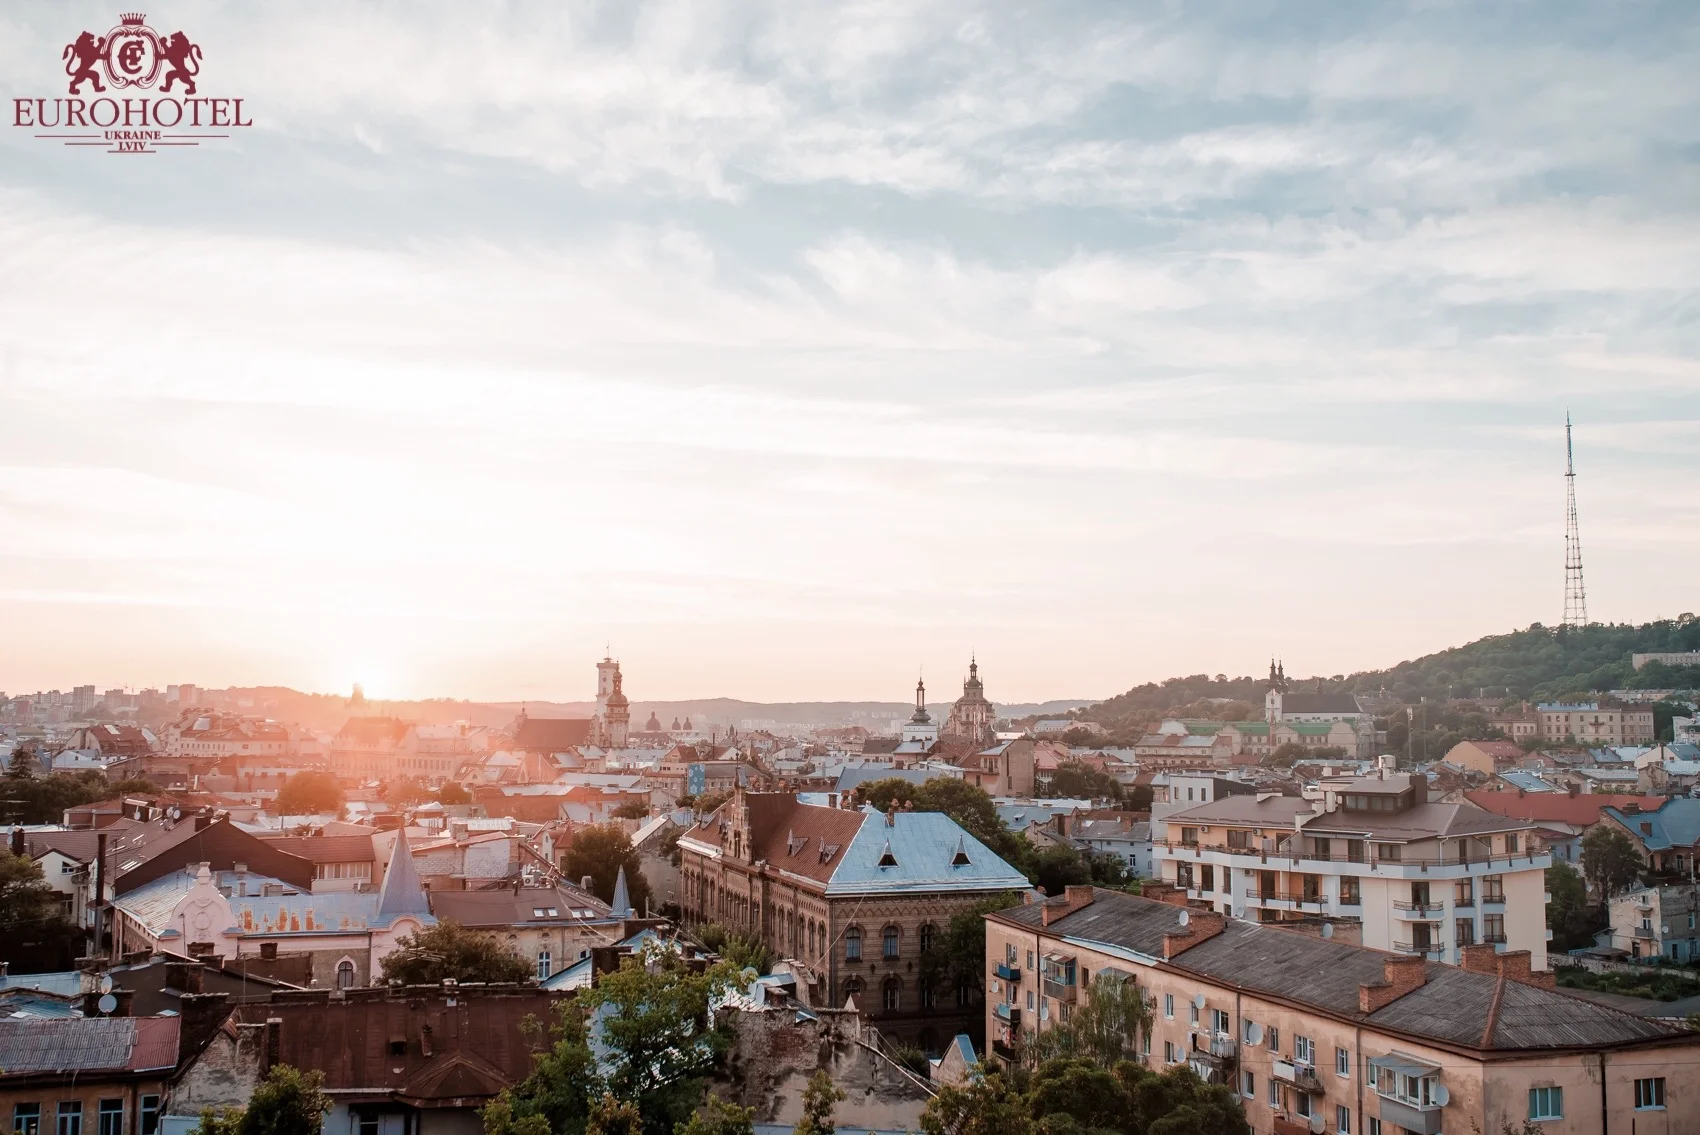
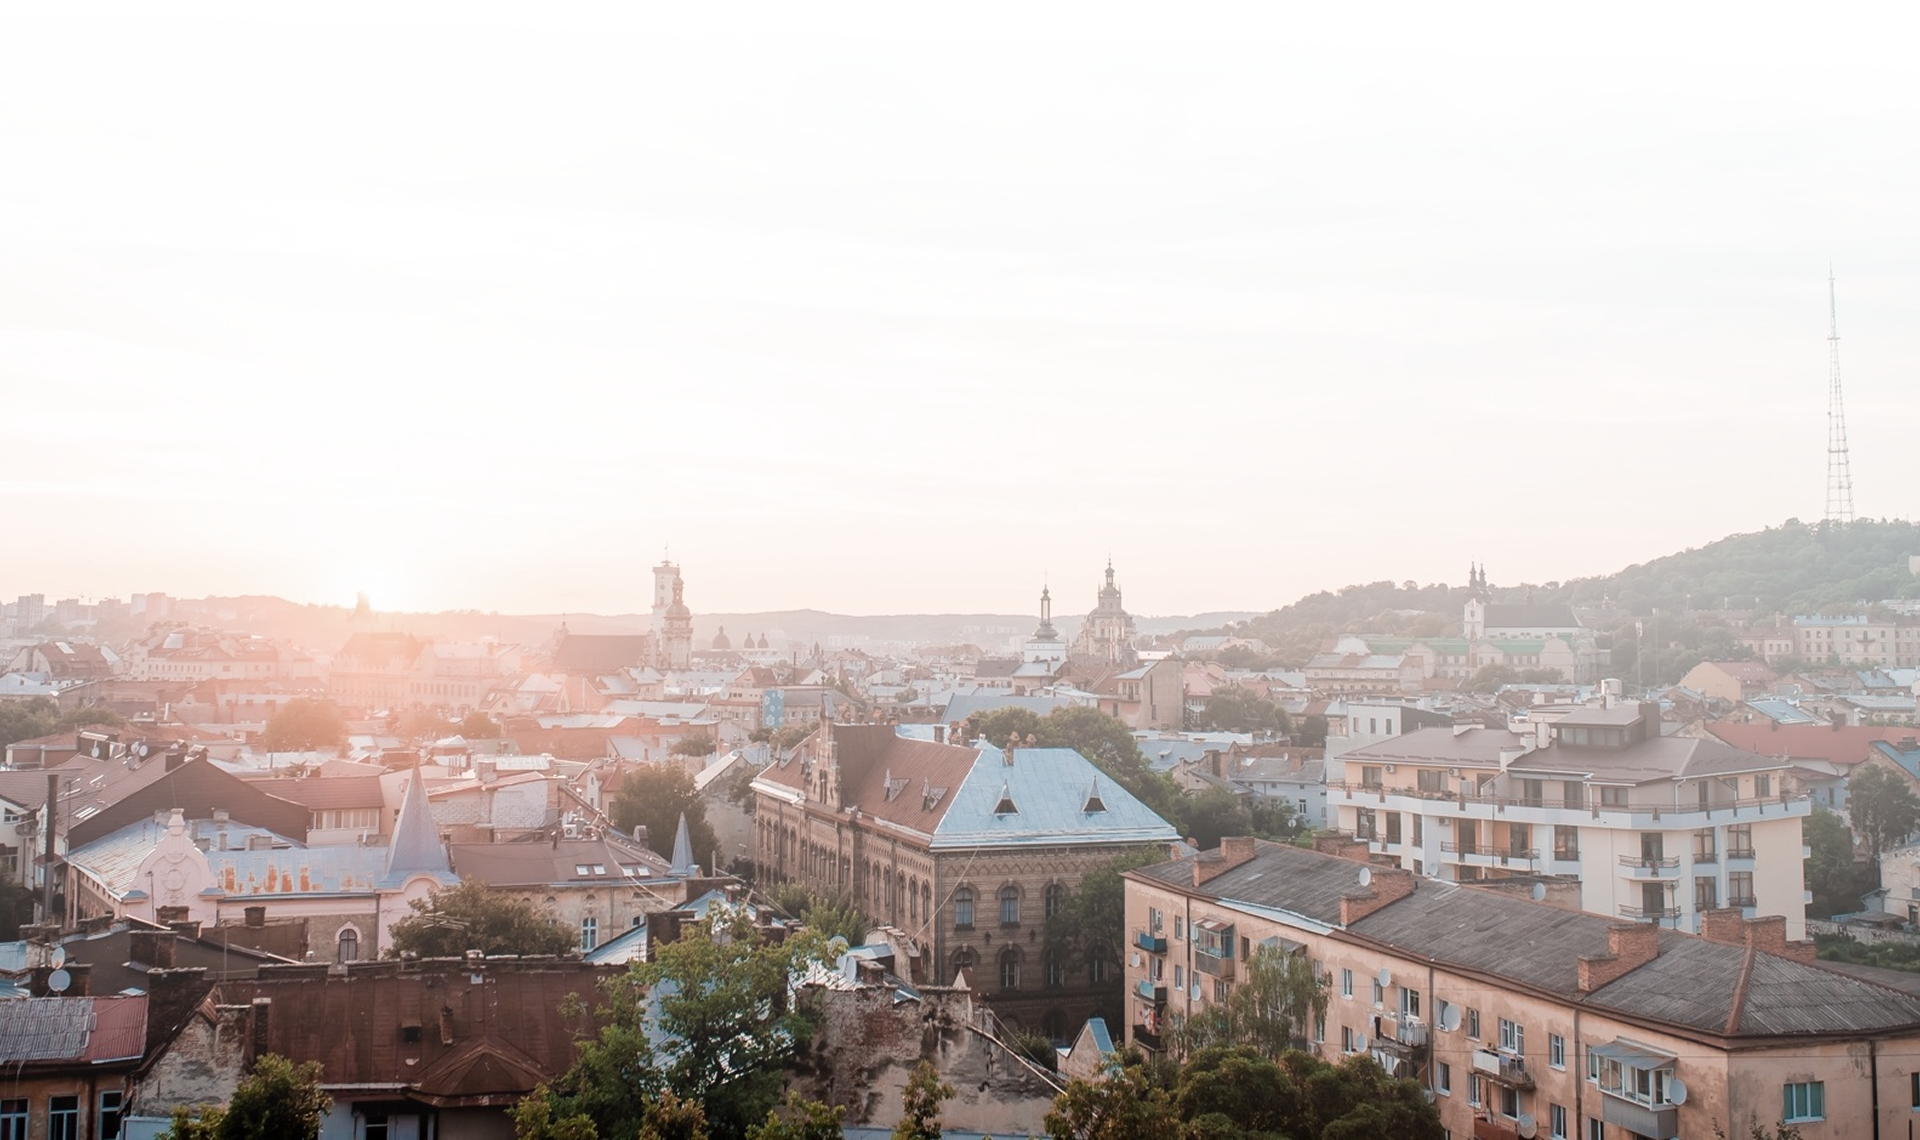
fix: contact us page replace img

diff --git a/src/components/common/HeaderPage/HeaderBackground.tsx b/src/components/common/HeaderPage/HeaderBackground.tsx
@@ -14,7 +14,7 @@ export const HeaderBackground: React.FC<HeaderBackgroundProps> = ({
     switch (gradientStyle) {
       case "light":
       case "contacts":
-        return "bg-[linear-gradient(2.57deg,rgba(255,255,255,0)_0.95%,#FFFFFF_95.83%)]";
+        return isContacts ? "lg:bg-none bg-[linear-gradient(2.57deg,rgba(255,255,255,0)_0.95%,#FFFFFF_95.83%)]" : "bg-[linear-gradient(2.57deg,rgba(255,255,255,0)_0.95%,#FFFFFF_95.83%)]";
       case "home":
         return "";
       case "dark":
@@ -32,7 +32,7 @@ export const HeaderBackground: React.FC<HeaderBackgroundProps> = ({
               fetchPriority="high"
               src={backgroundImage}
               alt="header background"
-              className="object-cover w-full h-full lg:block hidden"
+              className=" object-cover  w-full h-full lg:block hidden"
               style={{ objectPosition }}
             />
             <img

diff --git a/src/components/Contacts/Info.tsx b/src/components/Contacts/Info.tsx
@@ -87,7 +87,7 @@ export const Info = () => {
               >
                 {t("contacts.info.headingContactUs")}
               </h1>
-              <div className="lg:mt-[39px] 2xl:mt-[2.03vw] mt-[25px] lg:space-y-7 space-y-2.5 mx-[5.23vw]">
+              <div className="lg:mt-[39px] 2xl:mt-[2.03vw] mt-[25px] lg:space-y-7 space-y-2.5 mx-[5.23vw] lg:mx-0">
                 <p
                   className="font-cofo-medium uppercase 
                   text-[#8C331B] text-[3.2vw] md:text-[14px] lg:text-[14px] xl:text-[1.09vw] 2xl:text-[1.04vw]"

diff --git a/src/components/common/HeaderPage/PageHeader.tsx b/src/components/common/HeaderPage/PageHeader.tsx
@@ -51,7 +51,7 @@ export const PageHeader: React.FC<PageHeaderProps> = ({
           `absolute inset-0 flex flex-col  text-center ${
             textColor === "white" ? "text-white" : "text-black"
           }
-          ${isContacts ? "mt-[55vw] 2xl:mb-[7vw] xl:mb-[2vw] lg:mt-0 items-center lg:justify-center" : "  items-center justify-center"}
+          ${isContacts ? "mt-[55vw] 2xl:mb-[7vw] xl:mb-[2vw] lg:mt-0 items-center xl:mt-[25vw] 2xl:mt-[12vw] " : "  items-center justify-center"}
           z-10`
         )}
       >

diff --git a/src/components/Home/AboutHome.tsx b/src/components/Home/AboutHome.tsx
@@ -116,7 +116,7 @@ export const AboutHome = () => {
 
         <div className="border-b border-[#C7C7C7] md:flex hidden"></div>
 
-        <div className="relative">
+        <div className="relative lg:hidden">
           <hr className="w-[1000px] absolute -translate-x-1/2  border-[#C7C7C7]" />
         </div>
         
